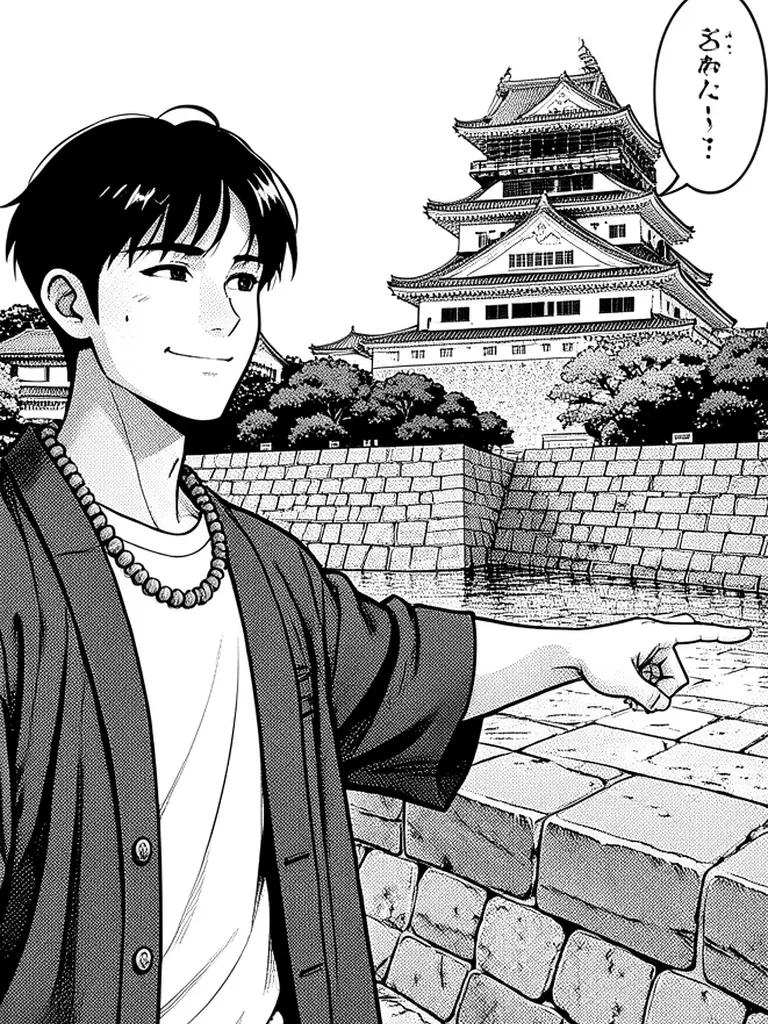
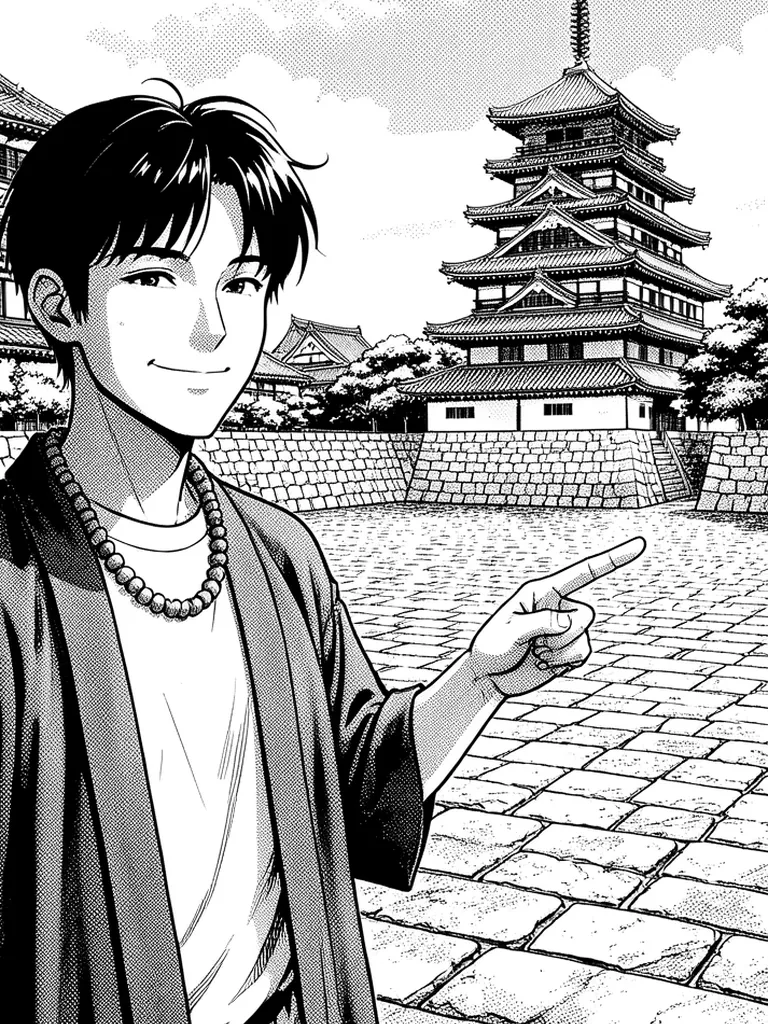
feat(manga): los 12 capítulos y «Un día conmigo» de cada guía completos
Rehechas tres viñetas: dos traían un bocadillo con falso texto japonés y la
Cúpula de Hiroshima salía como una cúpula de cristal.

diff --git a/tony-kansai-src/src/v8/historia.ts b/tony-kansai-src/src/v8/historia.ts
@@ -80,7 +80,10 @@ export const DIA: Record<'es' | 'en' | 'ar' | 'ru', { titulo: string; vinetas: [
 }
 
 /** Qué capítulos tienen ya sus viñetas generadas y revisadas. */
-export const HISTORIA_LISTA: string[] = ['tony-kyoto', 'tony-nara', 'tony-kobe', 'tony-himeji', 'tony-beyond', 'larion-hiroshima', 'larion-kyoto', 'larion-nara']
+export const HISTORIA_LISTA: string[] = [
+  'tony-osaka', 'tony-kyoto', 'tony-nara', 'tony-kobe', 'tony-himeji', 'tony-hiroshima', 'tony-beyond',
+  'larion-hiroshima', 'larion-kyoto', 'larion-nara', 'larion-osaka', 'larion-himeji', 'tony-dia', 'larion-dia',
+]
 
 /** Rótulos de la sección en cada idioma. */
 export const ROTULOS: Record<Lengua, { capitulo: string; enCiudad: (c: string) => string; poema: string }> = {
